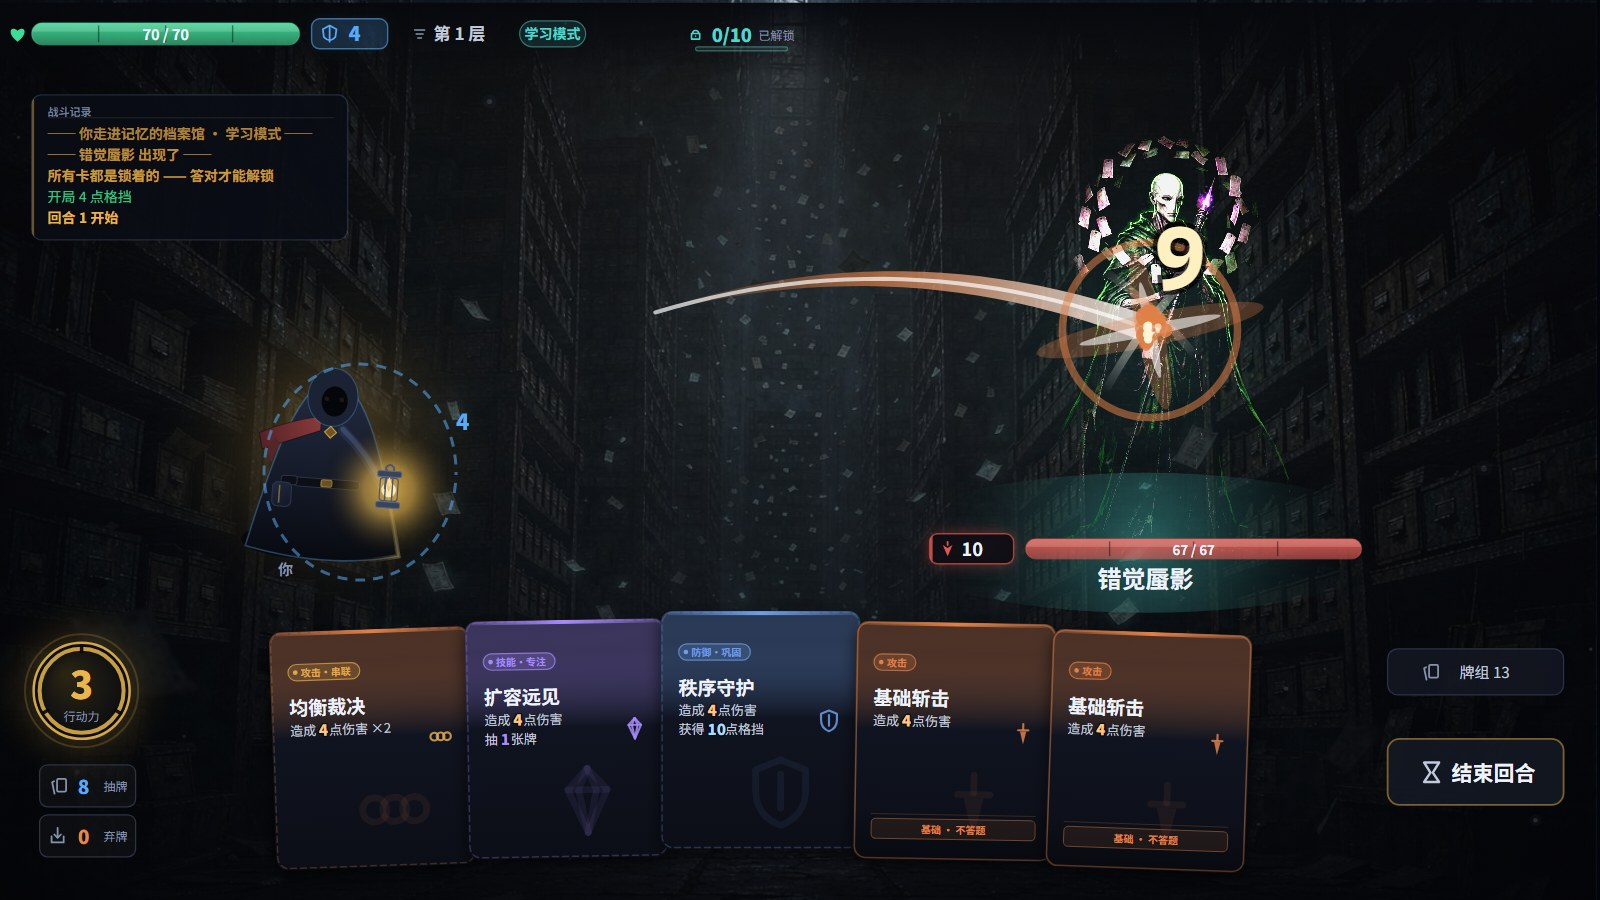
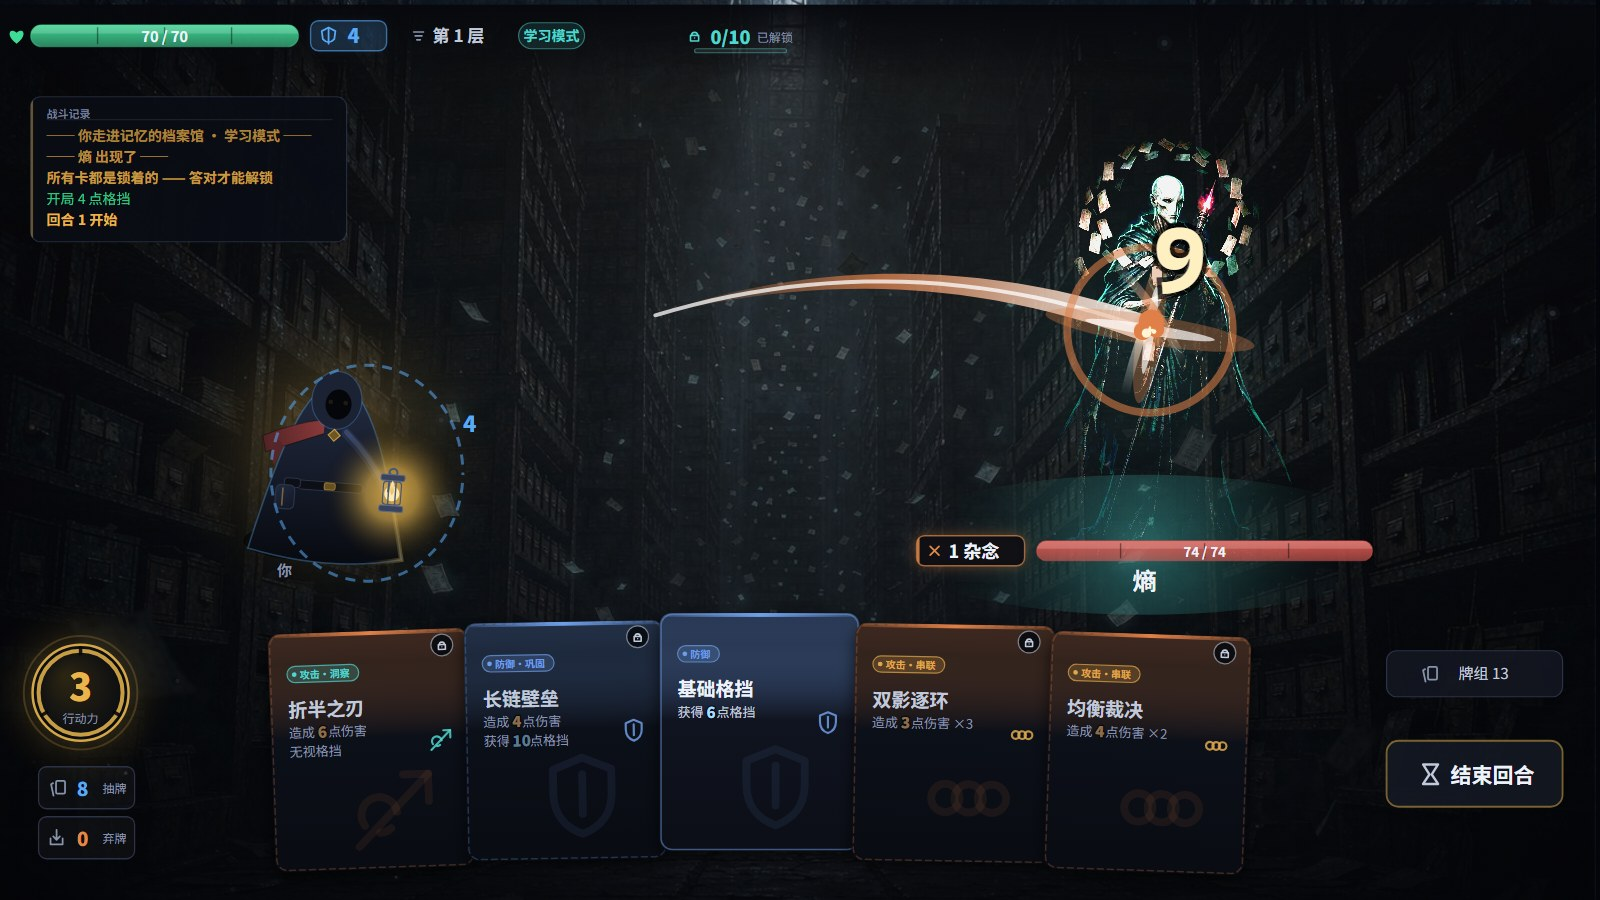
feat(cards): 卡面改用右上角锁章表示解锁，底部状态带整条移除
牌面下沿原来是一条通栏胶囊，写着「学习 · 答错会回来」/「免答 ×1.5」/
「本场作废」。一条通栏只为说一个字的状态，占掉卡高六分之一；而模式那句话
整局不变，五张手牌写五遍。解锁这件事收进右上角一枚角章：

- 合锁 = 要先答题，开锁 = 免答可打。测试模式答错再加一道斜杠 ——
  「这回合不行」和「这场没了」是两件事，锁 + 划掉才分得开
- 基础牌不参与解锁（顶栏进度也不算它），所以不画章 ——
  有章 / 无章本身就区分了这张牌在不在解锁系统里
- 锁章用近黑实心底，和卡面数字同一个手法：要从任何类别色的牌面上立起来
- 锁着的牌整张压一层 .34 暗幕，牌名与效果降一档、数字去饱和 ——
  只把字变灰不够，字暗了牌面还亮着，看上去依旧"可以打"
- 底部腾出来的高度给纹章水印（h*0.36 → 0.42），留白才像留白

顺带：CardOpts.mode 不写进牌面文字，只决定锁章冷暖（学习灰 / 复习橙 / 测试红）；
ui.ts 去掉 BAL 依赖（免答倍率 1.5 是常量，帮助页与结算页各说过一次）。
README 与帮助页里"解锁状态平时不标"的描述同步改掉。

diff --git a/src/gfx/ui.ts b/src/gfx/ui.ts
@@ -1,7 +1,7 @@
 import { g, roundRect, wrapText } from './canvas';
 import { onClick, hover } from '../input';
 import { C, font, FONT_UI, FONT_TITLE, withAlpha } from './theme';
-import { BAL, EFFS, MODES, POWER_BY_ID, resolveEff } from '../core/model';
+import { EFFS, MODES, POWER_BY_ID, resolveEff } from '../core/model';
 import { cardKind, cardType, CARD_TYPE_META } from '../core/cards';
 import type { CardDef, PowerDef, RunMode } from '../core/model';
 import { drawArtIcon } from './art/icons';
@@ -201,14 +201,17 @@ export interface CardOpts {
    * 战斗中的解锁状态。只有手牌会传 —— 牌组/奖励列表传了没意义，
    * 那两个界面关心的是"这张卡是什么"，不是"这一场能不能用"。
    *
+   * 牌面上它由两件事共同表达：右上角那枚锁章（合锁 / 开锁），
+   * 以及正文的明暗（锁着的牌名与效果整体压一档）。不写文字 ——
+   * "这张能不能打"是一个字的状态，不值得占一整条。
+   *
    * `forgotten` 是测试模式答错的结果：这一场这个卡种作废了（既不能答题，也打不出去）。
-   * `basic` 是初始牌组：不答题、随时可打，所以它不画成一幅"封印"的样子。
+   * `basic` 是初始牌组：不参与解锁，所以不画章、正文保持全亮。
    */
   state?: 'locked' | 'open' | 'spent' | 'forgotten' | 'basic';
   /**
-   * 本局模式。它决定"答错这件事有多贵"，但整局不变 —— 所以不逐张常驻，
-   * 只在鼠标停在这张牌上时补一句，免得同一句话在五张牌下沿重复五遍。
-   * 真正会变的那几种（免答 / 作废 / 已答错 / 不答题）才常驻。
+   * 本局模式。整局不变，不写进牌面文字，只决定锁章的冷暖色 ——
+   * 学习灰、复习橙、测试红，扫一眼就知道这一局答错要付多少。
    */
   mode?: RunMode;
 }
@@ -265,7 +268,21 @@ export function drawCard(
   g.fill();
 
   // 内描边 + 主题色外框。锁着的卡把边框压暗并改成虚线 —— 一眼就能看出"封印"
+  // 这张牌现在能不能用，只有一种判断；边框、暗幕、正文都用它。
   const sealed = opts.state === 'locked' || opts.state === 'spent' || opts.state === 'forgotten';
+
+  // 锁着的牌整体压一层暗幕。只把正文字变灰不够：字暗了，牌面还是亮的，
+  // 整张卡看上去依旧"可以打"。画在底色之后、边框之前 —— 边框和右上角的锁章
+  // 要留在暗幕之上，否则连"它锁着"这件事都被自己盖住。
+  if (sealed) {
+    g.save();
+    roundRect(x, y, w, h, r);
+    g.clip();
+    g.fillStyle = 'rgba(6,8,13,.34)';
+    g.fillRect(x, y, w, h);
+    g.restore();
+  }
+
   roundRect(x + 1.5, y + 1.5, w - 3, h - 3, r - 1);
   g.strokeStyle = opts.up ? withAlpha(C.gold, 0.85)
     : opts.state === 'open' ? withAlpha(C.gold, 0.5)
@@ -335,13 +352,17 @@ export function drawCard(
   }
 
   // 牌名正文：最多两行，超出截断（牌名都控制在七个字以内，两行只是兜底）。
-  // 版式改成"从上往下读"：类别徽章 → 牌名 → 效果 → 底部状态，下半部留给纹章水印。
+  // 版式改成"从上往下读"：类别徽章 → 牌名 → 效果，下半部留给纹章水印。
   // 以前正文是垂直居中排的，撤掉主题行和记忆条之后居中会留出一大块空，读起来散。
   g.font = font(Math.round(21 * s), 700, FONT_UI);
   const nameLines = kind === 'junk' ? ['杂念'] : wrapText(card.name, w - pad * 2).slice(0, 2);
   const by0 = y + 84 * s;
 
-  g.fillStyle = kind === 'junk' ? C.dim : C.ink;
+  // 锁着 = 现在用不了。灰字是这件事的通行语言，比在牌面下沿补一行解释更直接，
+  // 也不用为"一个字的状态"占掉一整条。已解锁的牌才是全亮的。
+  const bodyCol = kind === 'junk' ? C.faint : sealed ? C.dim : C.ink2;
+
+  g.fillStyle = kind === 'junk' ? C.dim : sealed ? C.ink2 : C.ink;
   g.textAlign = 'left';
   nameLines.forEach((ln, i) => g.fillText(ln, x + pad, by0 + i * lh));
 
@@ -350,7 +371,7 @@ export function drawCard(
   const effLine = (pre: string, num: number, suf: string, yy: number, col: string) => {
     g.textAlign = 'left';
     g.font = font(Math.round(14 * s), 400, FONT_UI);
-    g.fillStyle = kind === 'junk' ? C.faint : C.ink2;
+    g.fillStyle = bodyCol;
     g.fillText(pre, x + pad, yy);
     const w1 = g.measureText(pre).width;
     if (num > 0) {
@@ -363,13 +384,14 @@ export function drawCard(
       g.lineWidth = 3 * s;
       g.strokeStyle = 'rgba(6,8,13,.8)';
       g.strokeText(String(num), x + pad + w1, yy);
-      g.fillStyle = kind === 'junk' ? C.faint : col;
+      // 锁着的牌数字跟着压暗：亮红亮蓝会让玩家以为现在就能打出去
+      g.fillStyle = kind === 'junk' ? C.faint : sealed ? withAlpha(col, 0.55) : col;
       g.fillText(String(num), x + pad + w1, yy);
       g.restore();
     }
     const w2 = num > 0 ? g.measureText(String(num)).width : 0;
     g.font = font(Math.round(14 * s), 400, FONT_UI);
-    g.fillStyle = kind === 'junk' ? C.faint : C.ink2;
+    g.fillStyle = bodyCol;
     g.fillText(suf, x + pad + w1 + w2, yy);
   };
   if (kind === 'junk') {
@@ -400,73 +422,48 @@ export function drawCard(
 
   // 水印：用效果纹章放大压在下半部，单纯填版面 —— 它是机械信息，不是知识。
   // 以前这里是主题首字，等于把"这张牌属于哪一块知识"印在牌面上，撤掉了。
+  // 底部那行状态带撤掉之后下半部更空了，纹章相应放大一圈，让留白是留白、不是没画完。
   if (kind !== 'junk') {
-    drawArtIcon(eff.key, x + w * 0.6, y + h * 0.76, h * 0.36, tc, { alpha: 0.08 });
+    drawArtIcon(eff.key, x + w * 0.58, y + h * 0.73, h * 0.42, tc, { alpha: 0.085 });
   }
 
-  // ── 底部：只在"这张牌有话说"的时候出现 ─────────────────────
-  // 原来每张手牌下沿都印一句该模式的答错价码。那句话整局不变，五张牌写五遍
-  // 等于把同一个常量重复五次；模式现在标在顶栏。保留两类：这张牌**特殊**的时候
-  // （免答 / 作废 / 已答错 / 不答题）常驻，其余情况只在鼠标停在它身上时才给。
-  const exceptional = opts.state === 'open' || opts.state === 'forgotten'
-    || opts.state === 'spent' || opts.state === 'basic';
-  if (kind !== 'junk' && opts.state && (exceptional || opts.hovered)) {
-    // 底部垫一层向下渐深的底色，把"解锁状态 + 答错代价"从卡面正文里分出来
-    g.save();
-    roundRect(x, y, w, h, r);
-    g.clip();
-    const footH = 58 * s;
-    const foot = g.createLinearGradient(0, y + h - footH, 0, y + h);
-    foot.addColorStop(0, 'rgba(0,0,0,0)');
-    foot.addColorStop(1, 'rgba(0,0,0,.3)');
-    g.fillStyle = foot;
-    g.fillRect(x, y + h - footH, w, footH);
-    g.restore();
-
-    const py = y + h - 34 * s;
-    const ly = py - 16 * s;
-    g.beginPath();
-    g.moveTo(x + pad, ly);
-    g.lineTo(x + w - pad, ly);
-    g.strokeStyle = withAlpha(tc, 0.22);
-    g.lineWidth = 1;
-    g.stroke();
-
+  // ── 右上角：这张牌现在能不能直接打 ─────────────────────────
+  // 以前这件事写在牌面下沿一条通栏状态带里，一整条只为说一个字的状态。
+  // 现在收成一枚角章：合锁 = 要先答题，开锁 = 免答可打。
+  // 基础牌不参与解锁（顶栏的解锁进度也不算它），所以不画章 ——
+  // 有章 / 无章本身就区分了"这张牌在不在解锁系统里"。
+  if (kind !== 'junk' && opts.state && opts.state !== 'basic') {
+    const mode = opts.mode ? MODES[opts.mode] : null;
     const open = opts.state === 'open';
     const forgot = opts.state === 'forgotten';
-    const basic = opts.state === 'basic';
-    // 模式整局不变，所以不用再按卡算，直接读 MODES。基础牌例外 —— 它不答题。
-    const mode = opts.mode ? MODES[opts.mode] : null;
-    const label = basic ? '基础 · 不答题'
-      : open ? `免答 ×${BAL.freeMult}`
-        : forgot ? '本场作废'
-          : opts.state === 'spent' ? '这回合已答错'
-            : mode ? mode.cardLabel : '答错作废';
-    // 三档用三种颜色：学习冷、复习暖、测试红，扫一眼就知道这一局犯错有多贵
-    const col = basic ? tc
-      : open ? C.gold : forgot ? C.red
-        : opts.state === 'locked' ? (mode?.key === 'test' ? withAlpha(C.red, 0.9)
-          : mode?.key === 'review' ? withAlpha(C.orange, 0.9) : C.dim)
-          : C.faint;
-
-    roundRect(x + pad, py - 11 * s, w - pad * 2, 22 * s, 5 * s);
-    g.fillStyle = open ? withAlpha(C.gold, 0.14)
-      : forgot ? withAlpha(C.red, 0.1)
-        : basic ? withAlpha(col, 0.1)
-          : 'rgba(255,255,255,.04)';
+    // 三档沿用原来的语义：学习冷、复习暖、测试红，扫一眼就知道这局犯错多贵
+    const col = open ? C.gold
+      : forgot ? C.red
+        : opts.state === 'spent' ? C.orange
+          : mode?.key === 'test' ? withAlpha(C.red, 0.9)
+            : mode?.key === 'review' ? withAlpha(C.orange, 0.9)
+              // 学习模式没有"贵"的含义，但锁本身要读得出，所以不是 dim 而是 ink2
+              : C.ink2;
+    const cx = x + w - pad - 9 * s;
+    const cy = y + 18 * s;
+    // 近黑实心底：和卡面数字同一个手法 —— 这枚章要能从任何类别色的牌面上立起来
+    g.beginPath();
+    g.arc(cx, cy, 12 * s, 0, Math.PI * 2);
+    g.fillStyle = open ? withAlpha(C.gold, 0.2) : 'rgba(6,8,13,.86)';
     g.fill();
-    if (open || forgot || basic) {
-      g.strokeStyle = withAlpha(basic ? col : forgot ? C.red : C.gold, 0.45);
-      g.lineWidth = 1;
+    g.strokeStyle = withAlpha(col, open ? 0.85 : 0.6);
+    g.lineWidth = 1.2;
+    g.stroke();
+    icon(open ? 'unlock' : 'lock', cx, cy, 8.5 * s, col);
+    // 本场作废再加一道斜杠：锁是"这回合不行"，划掉才是"这场没了"
+    if (forgot) {
+      g.beginPath();
+      g.moveTo(cx - 7.5 * s, cy + 7.5 * s);
+      g.lineTo(cx + 7.5 * s, cy - 7.5 * s);
+      g.strokeStyle = withAlpha(C.red, 0.9);
+      g.lineWidth = 1.6;
       g.stroke();
     }
-
-    const mark = opts.state === 'forgotten' ? 'lock' : open ? 'check' : null;
-    if (mark) icon(mark, x + pad + 10 * s, py, 6.5 * s, col);
-    text(label, mark ? x + pad + 20 * s : x + w / 2, py + 0.5, {
-      size: Math.round(11 * s), align: mark ? 'left' : 'center', color: col,
-      weight: open ? 700 : 600,
-    });
   }
 
   // 精炼标记
@@ -605,7 +602,7 @@ export function title(s: string, x: number, y: number, size = 44, color = C.ink)
    emoji 会在不同系统上变成彩色贴纸或方框，UI 里的小图标一律手画。 */
 
 export type IconName =
-  | 'attack' | 'shield' | 'junk' | 'buff' | 'check' | 'lock'
+  | 'attack' | 'shield' | 'junk' | 'buff' | 'check' | 'lock' | 'unlock'
   | 'heart' | 'flame' | 'cards' | 'discard' | 'turn' | 'floor';
 
 export function icon(name: IconName, cx: number, cy: number, s: number, col: string) {
@@ -720,8 +717,9 @@ export function icon(name: IconName, cx: number, cy: number, s: number, col: str
     g.lineTo(cx, cy - s * 0.58);
     g.lineTo(cx + s * 0.38, cy - s * 0.12);
     g.stroke();
-  } else if (name === 'lock') {
-    // 锁体 + 锁梁 + 锁孔。缩到 6px 也要认得出，所以只用三段直线和一个半圆
+  } else if (name === 'lock' || name === 'unlock') {
+    // 锁体 + 锁孔两态共用，只有锁梁不一样：
+    // 合锁是全拱（扣在锁体上），开锁只留左半边并往上翘 —— 梁弹起来了。
     const bw = s * 0.9;
     const bh = s * 0.62;
     const by = cy - s * 0.04;
@@ -733,7 +731,8 @@ export function icon(name: IconName, cx: number, cy: number, s: number, col: str
     g.closePath();
     g.stroke();
     g.beginPath();
-    g.arc(cx, by, s * 0.33, Math.PI, Math.PI * 2);
+    if (name === 'lock') g.arc(cx, by, s * 0.33, Math.PI, Math.PI * 2);
+    else g.arc(cx + s * 0.05, by - s * 0.1, s * 0.3, Math.PI, Math.PI * 1.6);
     g.stroke();
     g.beginPath();
     g.arc(cx, by + bh * 0.46, s * 0.09, 0, Math.PI * 2);

diff --git a/src/scenes/overlay.ts b/src/scenes/overlay.ts
@@ -745,7 +745,7 @@ function drawHelp() {
       '能力：七种增益牌 —— 本场持续改规则（沙漏多 1 点行动力、索引卡多抽一张……）。',
     ]],
     ['牌面只讲机械，不讲知识', [
-      '卡面上只有类别、牌名、效果和数值。每张牌都是 1 点行动力，这个价不用逐张印；解锁状态平时不标，只有在免答 / 作废这类"这张牌跟别的牌不一样"的时候才出现。颜色按四类走（攻击橙 / 防御蓝 / 技能紫 / 能力金）。',
+      '卡面上只有类别、牌名、效果和数值。每张牌都是 1 点行动力，这个价不用逐张印；解锁状态看右上角那枚锁章——合锁是要先答题，开锁是免答可打，本场作废会划一道斜杠。颜色按四类走（攻击橙 / 防御蓝 / 技能紫 / 能力金）。',
       '没有主题名、没有知识点名、没有记忆度、更没有题干 —— 同一个主题的两张牌在牌面上毫无关联。',
       '所以「折半之刃」背后是哪道题，只能靠点开它知道；答完之后，反馈面板才会告诉你是哪个主题。',
     ]],

diff --git a/CHANGELOG.md b/CHANGELOG.md
@@ -10,13 +10,16 @@
 - **卡面右上角的「1」撤了**。83 张牌无一例外都吃 1 点行动力，逐张印一个「1」
   是把同一个常量重复 83 遍。这条规则现在只说两次：行动力环里加了「行动力」三个字
   （环上的刻度本来就有"一共几格"），帮助页保留「出牌 1 点」。
-- **卡面下沿的模式标签改成悬停才出现**。原来每张手牌底部都写着「学习 · 答错会回来」，
-  整局不变的一句话写五遍。现在只有**这张牌跟别的牌不一样**的时候才常驻（免答 ×2、
-  本场作废、这回合已答错、基础 · 不答题），其余情况鼠标停上去才补一句。
-  信息没有丢，只是从"一直喊"改成"问的时候答"。
+- **卡面下沿的状态带整条撤了**。原来每张手牌底部都有一枚通栏胶囊，写着「学习 · 答错
+  会回来」/「免答 ×1.5」/「本场作废」。那是宽度换成一句话的状态，占掉整张牌六分之一，
+  而它想说的只是一个字：这张现在能不能打。现在这件事由右上角一枚角章回答（合锁 / 开锁），
+  配上正文明暗和暗幕，文字条一行都不留。免答倍率 1.5 是全场常量，帮助页和结算页各说过一次。
+- **锁着的牌整张压暗**。光把字变灰不够：字暗了牌面还是亮的，看上去依旧"可以打"。
+  现在叠一层 `.34` 暗幕（画在边框和角章之下，否则连"它锁着"都被自己盖住），
+  牌名与效果降一档，锁章用近黑实心底 —— 和卡面数字同一个手法，要从任何类别色上立起来。
 - **顶栏的敌人等级胶囊删掉**。它和敌人名字右边的徽章是同一件事，而「普通」是默认值 ——
   标注默认值等于噪声。名字下那枚也只在精英/首领时出现。空出来的位置给了模式胶囊，
-  正好接住上一条里模式标签的落点。
+  「学习 / 复习 / 测试」这局到底在打什么，现在只在顶栏出现一次。
 - **「结束回合」按钮不再复述**。「5 张手牌 · 行动力 3」——手牌摊在眼前、行动力在
   左手边的环上，按钮上只留一个动作，文字居中了。
 - **奖励面板不再三张卡各写一句「还没答过」**。三张新卡状态完全一样，写三遍是噪声；

diff --git a/README.md b/README.md
@@ -3,8 +3,8 @@
 **用你的知识爬一座塔。**
 
 一张卡就是一个知识点，卡面效果是固定的。**牌面只讲机械，不讲知识**：手牌上只有
-**类别、效果、数值**（每张牌都是 1 点行动力，这个价不印在牌面上），以及**只在特殊时**
-才出现的解锁状态——没有主题、没有知识点名、没有记忆度、更没有题干。
+**类别、效果、数值**（每张牌都是 1 点行动力，这个价不印在牌面上），以及**右上角一枚锁章**
+——合锁是要先答题，开锁是免答可打，不写文字条——没有主题、没有知识点名、没有记忆度、更没有题干。
 **点开这张牌，题和选项才出现**：答对，这一手就生效，这个卡种当场解锁；
 答错，这一手作废——**罚多重，看你开局前选的模式**：学习模式牌回牌堆（下回合抽回来），
 复习模式进弃牌堆（等洗牌），测试模式这个卡种本场作废。
